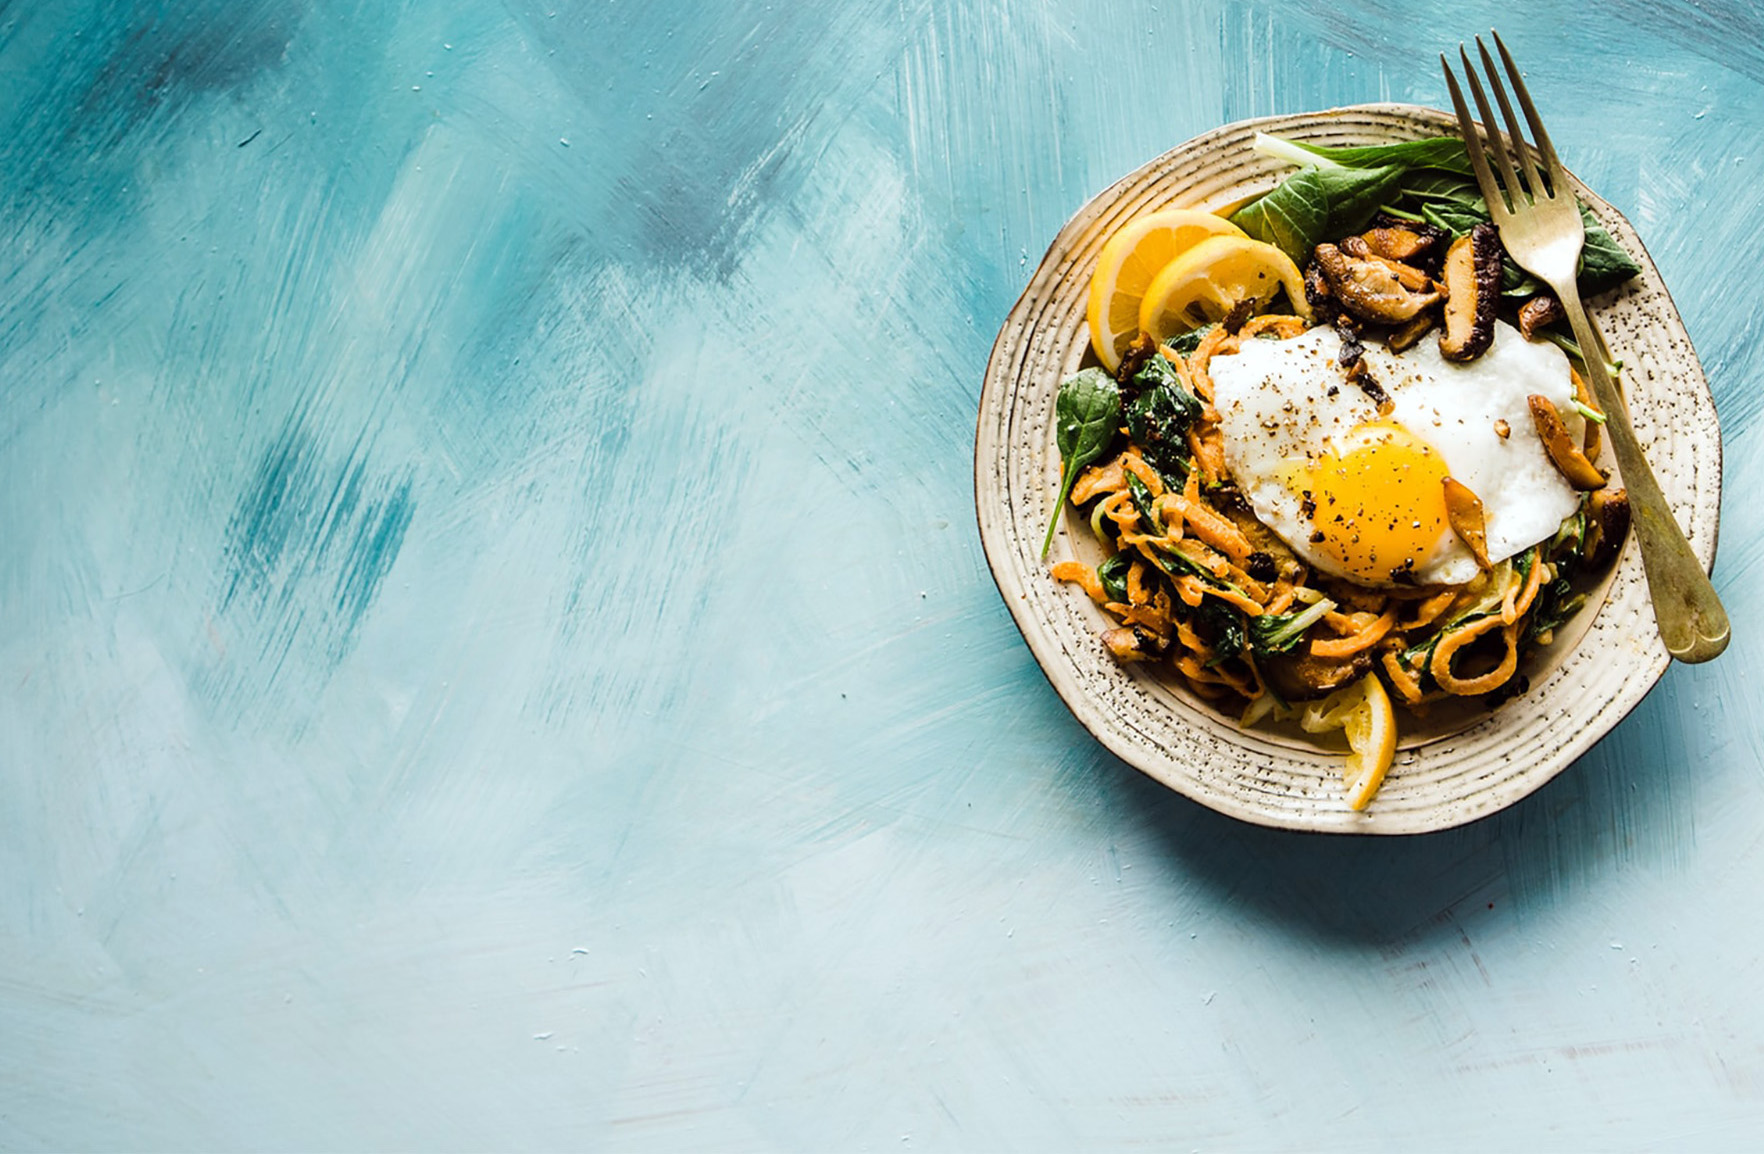
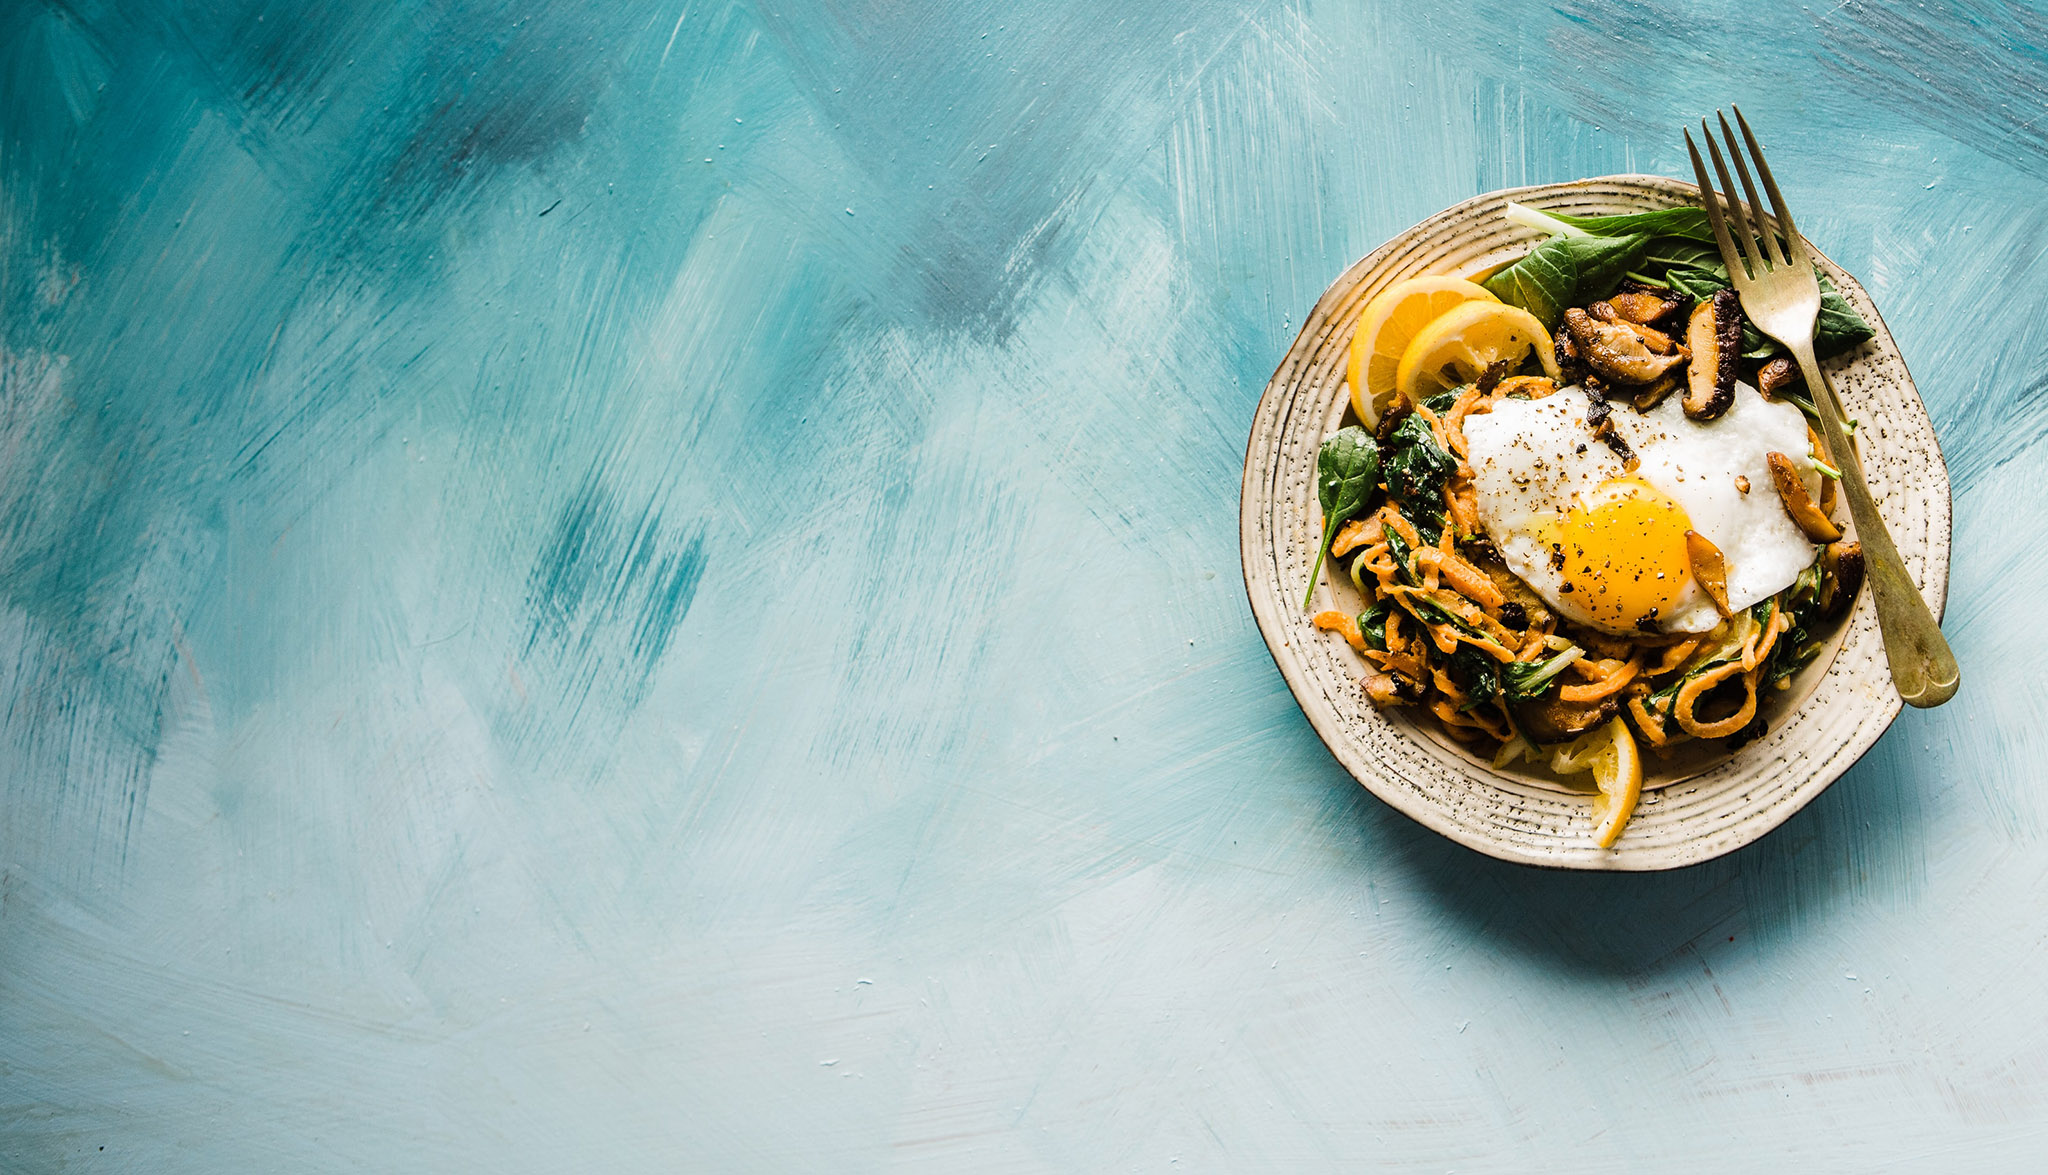
changed background size and crop to fit better.

diff --git a/assets/css/style.css b/assets/css/style.css
@@ -22,7 +22,7 @@ label {
 }
 
 .jumbotron {
-    height: 70vh;
+    height: 80vh;
     min-height: 500px;
     background-image: 
     linear-gradient(to right, rgba(0,0,0,.75), rgba(0,0,0,0)),
